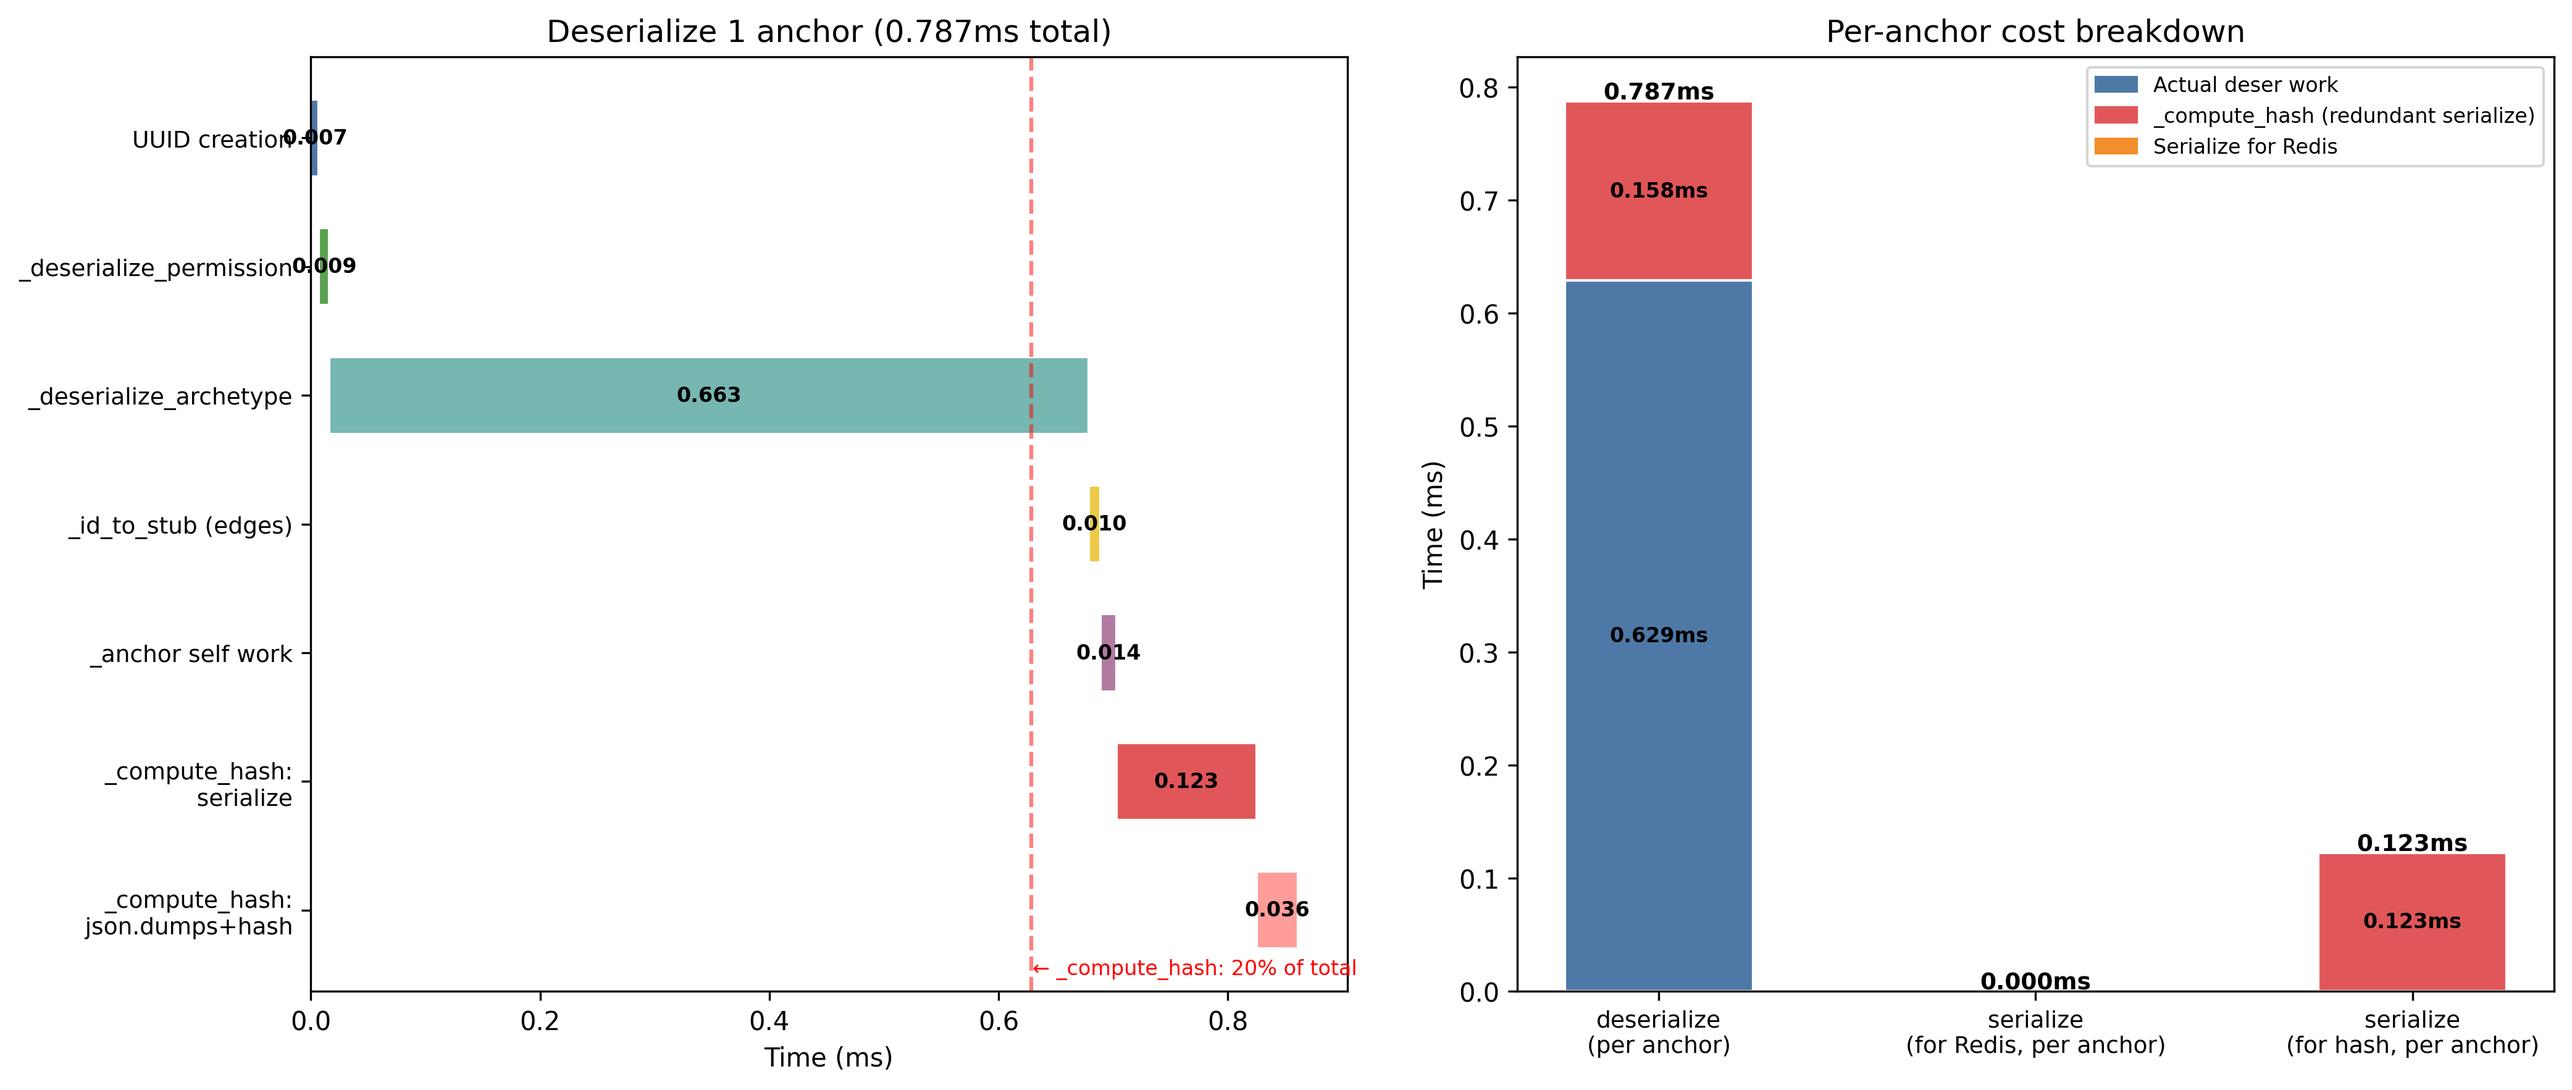
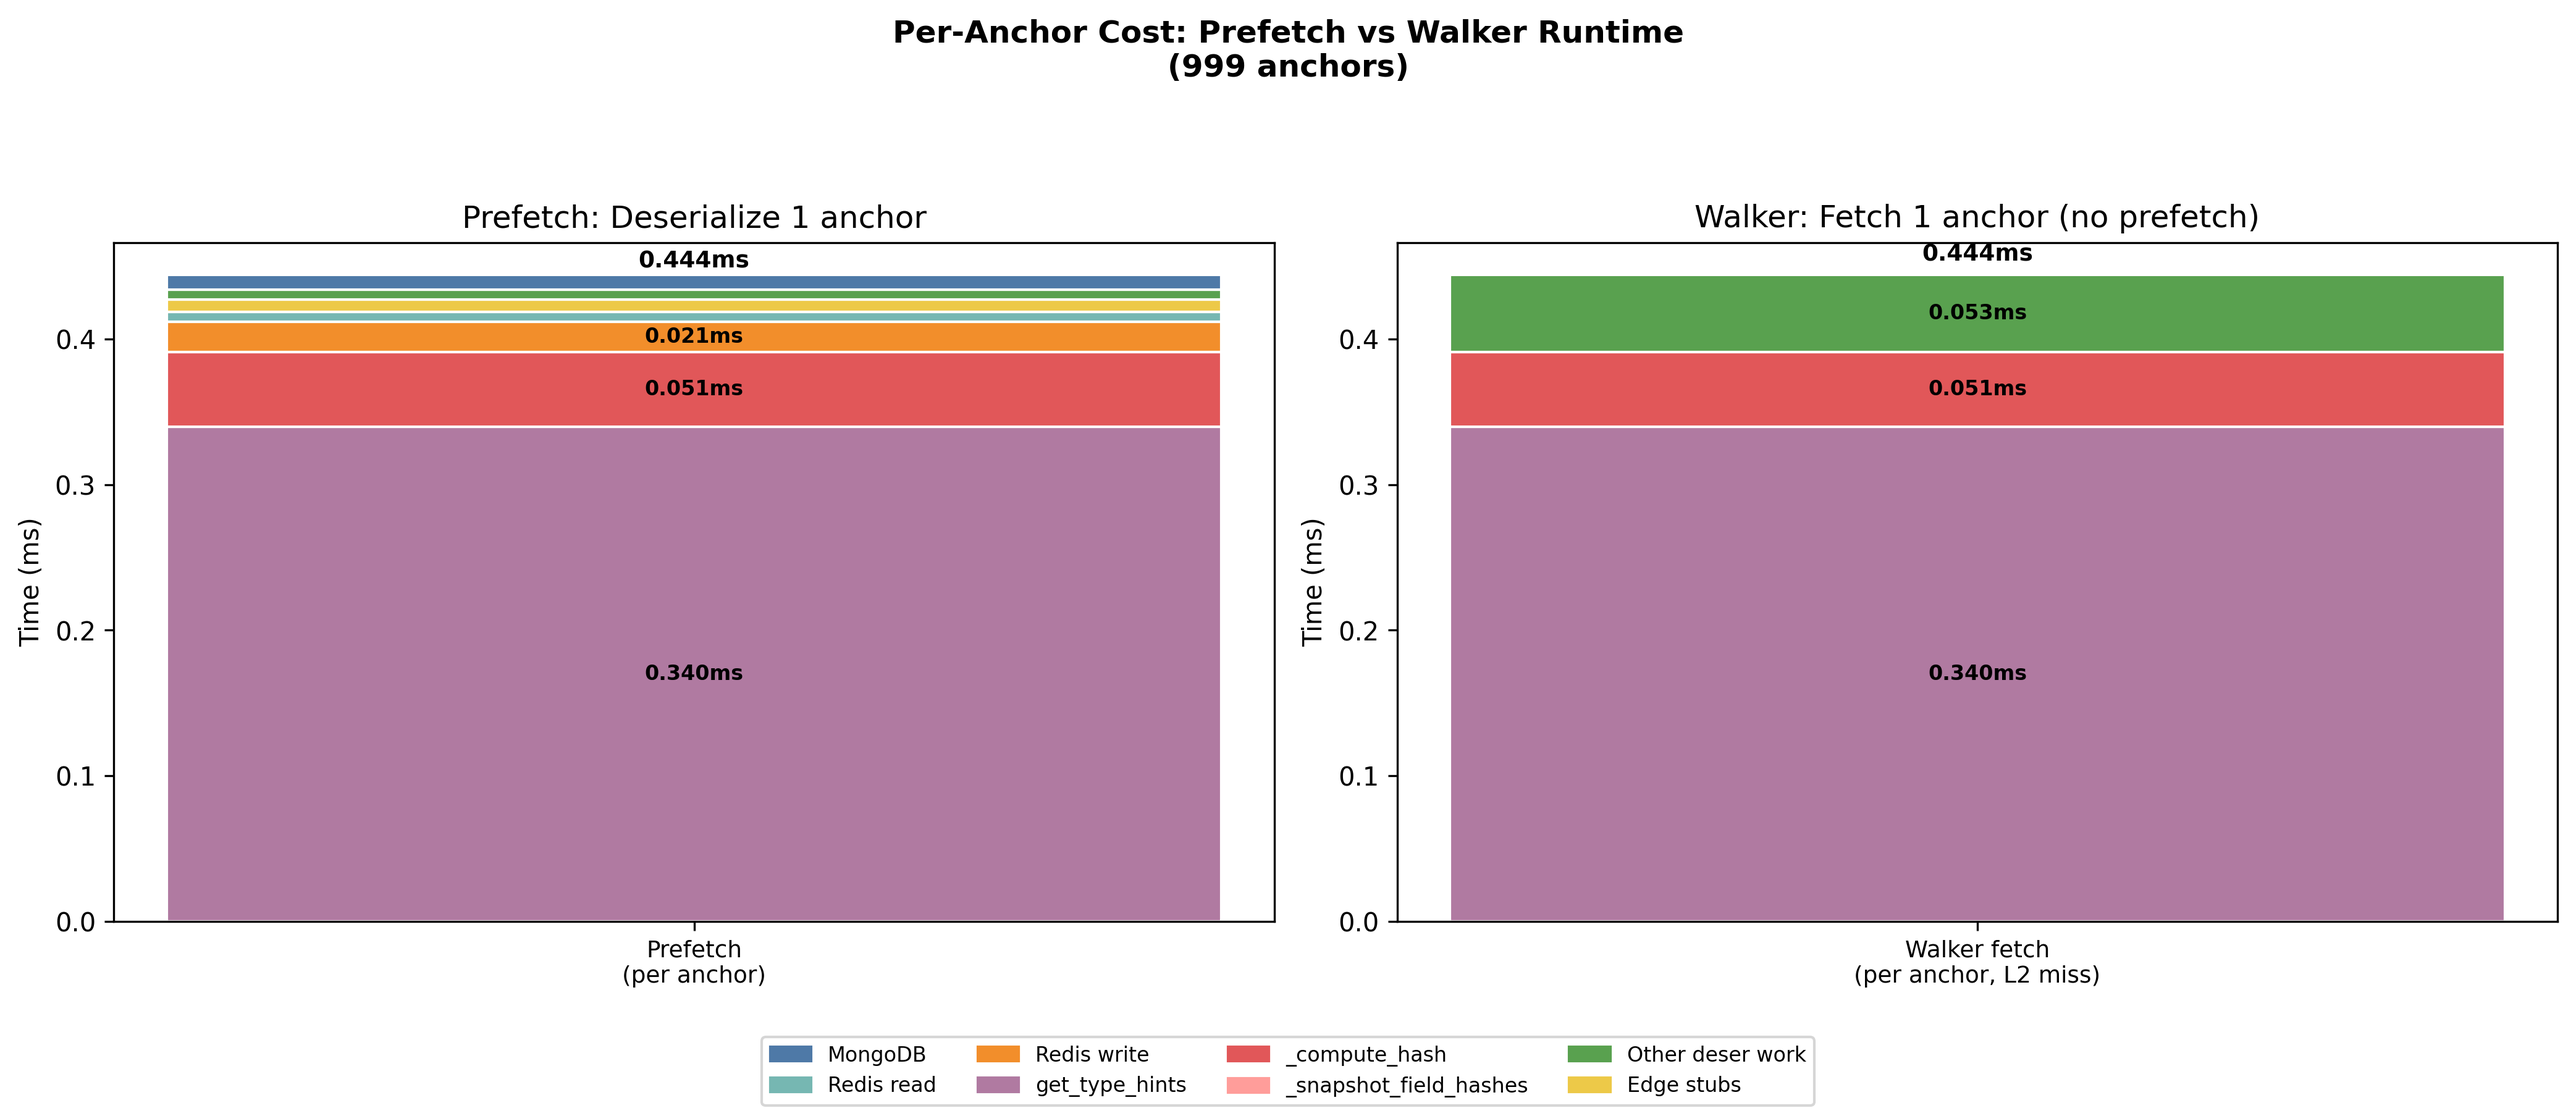
update per-anchor cost breakdown and deser timeline scripts

diff --git a/linked_list/plot_ser_timeline.py b/linked_list/plot_ser_timeline.py
@@ -1,12 +1,18 @@
 #!/usr/bin/env python3
-"""Visualize serialize/deserialize timeline per anchor from profiling data."""
+"""Visualize per-anchor cost breakdown for prefetch and walker runtime paths.
+
+Left panel:  Prefetch path (MongoDB bulk → deserialize → L1)
+Right panel: Walker runtime path (L2 miss → L3 fetch → deserialize → L2 write → L1)
+
+Usage:
+    python plot_ser_timeline.py [path/to/jac_server.prof]
+"""
 
 import pstats
 import sys
 
 import matplotlib.pyplot as plt
 import matplotlib.patches as mpatches
-import numpy as np
 
 
 def load_stats(prof_path):
@@ -32,7 +38,7 @@ def main():
     prof_path = sys.argv[1] if len(sys.argv) > 1 else "profiles/limit_0/trial_1/jac_server.prof"
     s, cal = load_stats(prof_path)
 
-    n_anchors = s["deserialize"]["nc"]
+    n_anchors = s.get("deserialize", {"nc": 1})["nc"]
 
     # Per-anchor times (ms)
     def ct(fn):
@@ -41,124 +47,111 @@ def main():
     def tt(fn):
         return s.get(fn, {"tt": 0})["tt"] * 1000 / n_anchors
 
-    def caller_ct(fn, caller):
-        return cal.get(fn, {}).get(caller, {"ct": 0})["ct"] * 1000 / n_anchors
-
-    # Deserialize breakdown
+    # --- Deserialize breakdown (per anchor) ---
     total_deser = ct("deserialize")
-    compute_hash = ct("_compute_hash")
-    hash_serialize = caller_ct("serialize", "_compute_hash")
-    hash_json = compute_hash - hash_serialize
-    uuid_creation = ct("UUID.__init__") * 2 / (s["UUID.__init__"]["nc"] / n_anchors)  # approximate
-    deser_permission = ct("_deserialize_permission")
-    deser_archetype = ct("_deserialize_archetype")
-    id_to_stub = ct("_id_to_stub")
-    deser_anchor_self = tt("_deserialize_anchor")
-    deser_other = total_deser - compute_hash - deser_permission - deser_archetype - id_to_stub - deser_anchor_self
+    compute_hash = ct("_compute_hash") * (n_anchors / s.get("_compute_hash", {"nc": 1})["nc"])
+    get_type_hints = ct("get_type_hints") * (n_anchors / s.get("get_type_hints", {"nc": 1})["nc"])
+    uuid_total = tt("UUID.__init__")
+    permission = ct("_deserialize_permission")
+    stub = ct("_id_to_stub")
+    arch_self = tt("_deserialize_archetype")
+    anchor_self = tt("_deserialize_anchor")
 
-    # Serialize breakdown (for Redis write path)
-    ser_for_redis = caller_ct("serialize", "RedisBackend.bulk_put")
-    ser_value_tt = tt("_serialize_value")
-    ser_attrs_tt = tt("_serialize_attrs")
+    # Compute get_type_hints by subtraction for accuracy
+    non_typing = compute_hash + uuid_total + permission + stub + arch_self + anchor_self
+    typing_in_deser = max(0, total_deser - non_typing)
 
-    # Build waterfall data for deserialize
-    deser_steps = [
-        ("UUID creation", uuid_creation if uuid_creation > 0 else deser_other, "#4e79a7"),
-        ("_deserialize_permission", deser_permission, "#59a14f"),
-        ("_deserialize_archetype", deser_archetype, "#76b7b2"),
-        ("_id_to_stub (edges)", id_to_stub, "#edc948"),
-        ("_anchor self work", deser_anchor_self, "#b07aa1"),
-        ("_compute_hash:\n  serialize", hash_serialize, "#e15759"),
-        ("_compute_hash:\n  json.dumps+hash", hash_json, "#ff9d9a"),
-    ]
+    # --- Redis write per anchor (during walker batch_get miss path) ---
+    redis_put_total = s.get("RedisBackend.put", {"ct": 0})["ct"] * 1000
+    redis_put_nc = s.get("RedisBackend.put", {"nc": 1})["nc"]
+    redis_put_per = redis_put_total / redis_put_nc if redis_put_nc > 0 else 0
 
+    # --- MongoDB per anchor (during walker batch_get miss path) ---
+    mongo_batch = s.get("MongoBackend.batch_get", {"ct": 0})["ct"] * 1000
+    mongo_nc = s.get("MongoBackend.batch_get", {"nc": 1})["nc"]
+    mongo_per = mongo_batch / mongo_nc if mongo_nc > 0 else 0
+
+    # --- Redis MGET per anchor (during walker batch_get) ---
+    redis_mget = s.get("RedisBackend.batch_get", {"ct": 0})["ct"] * 1000
+    redis_mget_nc = s.get("RedisBackend.batch_get", {"nc": 1})["nc"]
+    redis_mget_per = redis_mget / redis_mget_nc if redis_mget_nc > 0 else 0
+
+    # --- Snapshot per anchor ---
+    snapshot_total = s.get("_snapshot_field_hashes", {"ct": 0})["ct"] * 1000
+    snapshot_nc = s.get("_snapshot_field_hashes", {"nc": 1})["nc"]
+    snapshot_per = snapshot_total / snapshot_nc if snapshot_nc > 0 else 0
+
+    # ─── Figure ───
     fig, axes = plt.subplots(1, 2, figsize=(14, 6))
 
-    # --- Deserialize waterfall ---
-    ax = axes[0]
-    y_pos = 0
-    starts = []
-    widths = []
-    colors = []
-    labels = []
-    offset = 0.0
+    # ─── Left: Prefetch per-anchor ───
+    ax1 = axes[0]
+    prefetch_parts = [
+        ("get_type_hints\n(typing reflection)", typing_in_deser, "#b07aa1"),
+        ("_compute_hash\n(re-serialize+hash)", compute_hash, "#e15759"),
+        ("UUID construction", uuid_total, "#f28e2b"),
+        ("Permission", permission, "#76b7b2"),
+        ("Edge stubs", stub, "#edc948"),
+        ("Archetype recon.", arch_self, "#59a14f"),
+        ("Anchor setup", anchor_self, "#4e79a7"),
+    ]
 
-    for label, width, color in deser_steps:
-        starts.append(offset)
-        widths.append(width)
-        colors.append(color)
-        labels.append(label)
-        offset += width
+    bottom = 0
+    for label, val, color in prefetch_parts:
+        ax1.bar(0, val, bottom=bottom, color=color, width=0.5, edgecolor="white")
+        if val > total_deser * 0.03:
+            ax1.text(0, bottom + val / 2, f"{val:.3f}ms", ha="center", va="center", fontsize=8, fontweight="bold")
+        bottom += val
+    ax1.text(0, bottom + 0.005, f"{bottom:.3f}ms", ha="center", fontsize=9, fontweight="bold")
+    ax1.set_xticks([0])
+    ax1.set_xticklabels(["Prefetch\n(per anchor)"], fontsize=9)
+    ax1.set_ylabel("Time (ms)")
+    ax1.set_title("Prefetch: Deserialize 1 anchor")
 
-    y_positions = range(len(deser_steps))
-    bars = ax.barh(y_positions, widths, left=starts, color=colors, height=0.6, edgecolor="white")
-
-    ax.set_yticks(list(y_positions))
-    ax.set_yticklabels(labels, fontsize=9)
-    ax.invert_yaxis()
-    ax.set_xlabel("Time (ms)")
-    ax.set_title(f"Deserialize 1 anchor ({total_deser:.3f}ms total)")
-
-    # Add time labels on bars
-    for bar, w in zip(bars, widths):
-        if w > 0.003:
-            ax.text(
-                bar.get_x() + bar.get_width() / 2,
-                bar.get_y() + bar.get_height() / 2,
-                f"{w:.3f}",
-                ha="center", va="center", fontsize=8, fontweight="bold",
-            )
-
-    # --- Stacked bar: overall comparison ---
+    # ─── Right: Walker runtime per-anchor (L2 miss path) ───
     ax2 = axes[1]
+    walker_parts = [
+        ("Redis MGET", redis_mget_per, "#76b7b2"),
+        ("MongoDB query", mongo_per, "#4e79a7"),
+        ("get_type_hints", typing_in_deser, "#b07aa1"),
+        ("_compute_hash", compute_hash, "#e15759"),
+        ("Other deser", uuid_total + permission + stub + arch_self + anchor_self, "#59a14f"),
+        ("_snapshot_field_hashes", snapshot_per, "#ff9d9a"),
+        ("Redis PUT\n(write-back)", redis_put_per, "#f28e2b"),
+    ]
+    # Filter zero values
+    walker_parts = [(l, v, c) for l, v, c in walker_parts if v > 0.001]
 
-    actual_deser = total_deser - compute_hash
-    categories = {
-        "deserialize\n(per anchor)": [
-            ("Actual deserialization", actual_deser, "#4e79a7"),
-            ("_compute_hash\n(re-serialize+json+hash)", compute_hash, "#e15759"),
-        ],
-        "serialize\n(for Redis, per anchor)": [
-            ("_serialize_value", ser_for_redis, "#f28e2b"),
-        ],
-        "serialize\n(for hash, per anchor)": [
-            ("_serialize_value (inside hash)", hash_serialize, "#e15759"),
-        ],
-    }
-
-    x_pos = 0
-    x_ticks = []
-    x_labels = []
-    for cat_label, parts in categories.items():
-        bottom = 0
-        for part_label, val, color in parts:
-            bar = ax2.bar(x_pos, val, bottom=bottom, color=color, width=0.5, edgecolor="white")
-            if val > 0.005:
-                ax2.text(
-                    x_pos, bottom + val / 2,
-                    f"{val:.3f}ms",
-                    ha="center", va="center", fontsize=8, fontweight="bold",
-                )
-            bottom += val
-        ax2.text(x_pos, bottom + 0.002, f"{bottom:.3f}ms", ha="center", fontsize=9, fontweight="bold")
-        x_ticks.append(x_pos)
-        x_labels.append(cat_label)
-        x_pos += 1
-
-    ax2.set_xticks(x_ticks)
-    ax2.set_xticklabels(x_labels, fontsize=9)
+    bottom = 0
+    for label, val, color in walker_parts:
+        ax2.bar(0, val, bottom=bottom, color=color, width=0.5, edgecolor="white")
+        if val > 0.01:
+            ax2.text(0, bottom + val / 2, f"{val:.3f}ms", ha="center", va="center", fontsize=8, fontweight="bold")
+        bottom += val
+    ax2.text(0, bottom + 0.01, f"{bottom:.3f}ms", ha="center", fontsize=9, fontweight="bold")
+    ax2.set_xticks([0])
+    ax2.set_xticklabels(["Walker fetch\n(per anchor, L2 miss)"], fontsize=9)
     ax2.set_ylabel("Time (ms)")
-    ax2.set_title("Per-anchor cost breakdown")
+    ax2.set_title("Walker: Fetch 1 anchor (no prefetch)")
 
     # Legend
     legend_patches = [
-        mpatches.Patch(color="#4e79a7", label="Actual deser work"),
-        mpatches.Patch(color="#e15759", label="_compute_hash (redundant serialize)"),
-        mpatches.Patch(color="#f28e2b", label="Serialize for Redis"),
+        mpatches.Patch(color="#4e79a7", label="MongoDB"),
+        mpatches.Patch(color="#76b7b2", label="Redis read"),
+        mpatches.Patch(color="#f28e2b", label="Redis write"),
+        mpatches.Patch(color="#b07aa1", label="get_type_hints"),
+        mpatches.Patch(color="#e15759", label="_compute_hash"),
+        mpatches.Patch(color="#ff9d9a", label="_snapshot_field_hashes"),
+        mpatches.Patch(color="#59a14f", label="Other deser work"),
+        mpatches.Patch(color="#edc948", label="Edge stubs"),
     ]
-    ax2.legend(handles=legend_patches, fontsize=8, loc="upper right")
+    fig.legend(handles=legend_patches, loc="lower center", ncol=4, fontsize=8)
 
-    plt.tight_layout()
+    plt.suptitle(
+        f"Per-Anchor Cost: Prefetch vs Walker Runtime\n({n_anchors} anchors)",
+        fontsize=12, fontweight="bold",
+    )
+    plt.tight_layout(rect=[0, 0.08, 1, 0.93])
     out = "ser_deser_timeline.png"
     plt.savefig(out, dpi=300, bbox_inches="tight")
     print(f"Saved to {out}")
